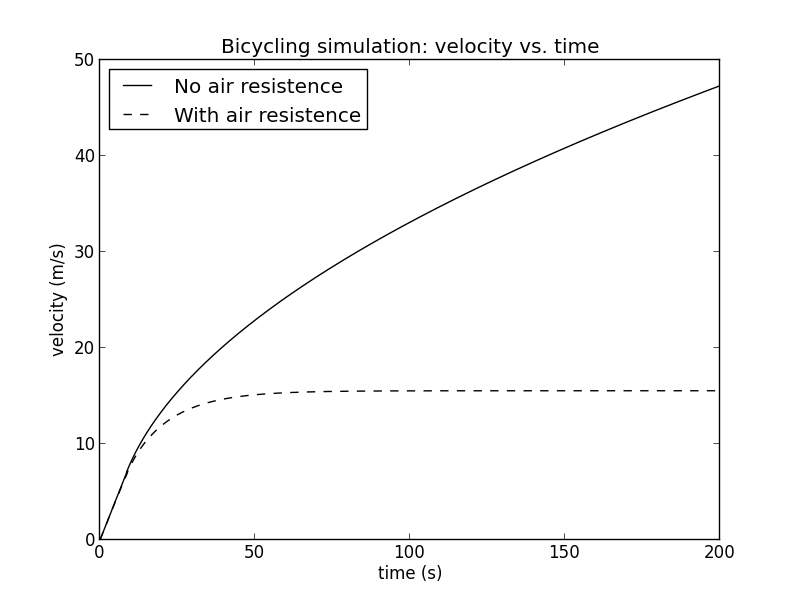
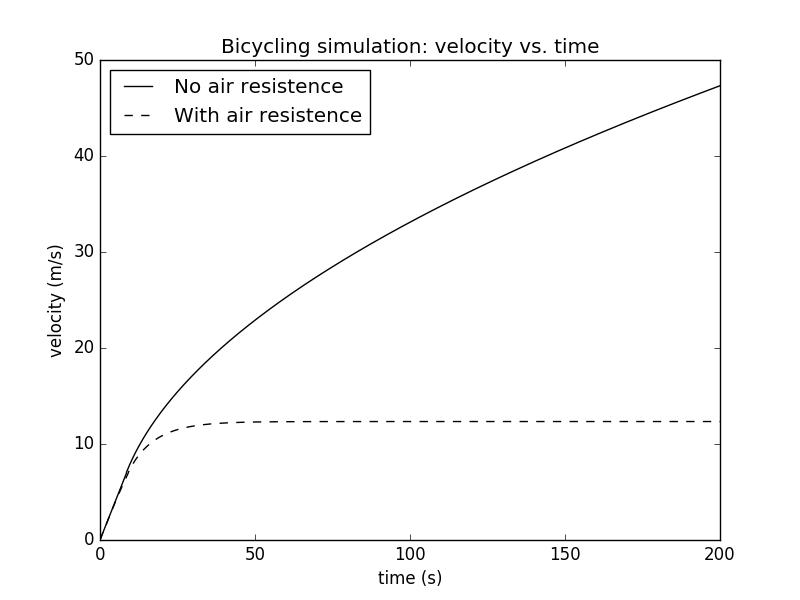
Chapter II

diff --git a/2/2_5/2_5.py b/2/2_5/2_5.py
@@ -8,7 +8,7 @@ Created on Mon Jan 11 17:55:48 2016
 import matplotlib.pyplot as plt
 
 DENSITY = 1.29 #空气密度(kg/m3)
-C = 0.5        #阻力系数
+C = 1.0        #阻力系数
 A = 0.33       #截面积(m2)
 M = 70.0       #人车质量(kg)
 v = 7.0        #转折速度(m/s)
